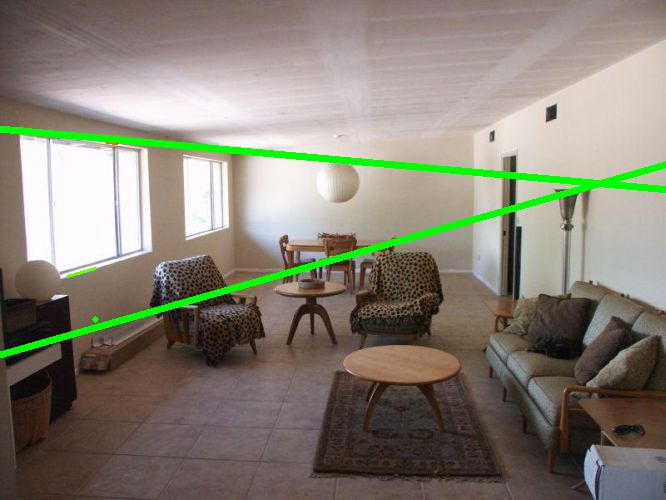
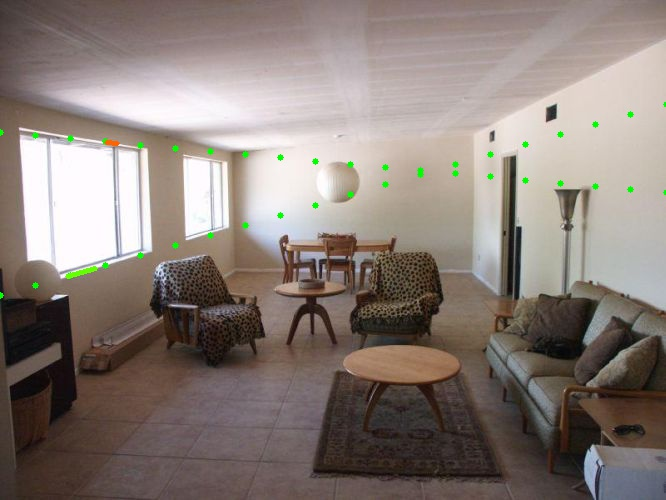
Another attempt, these files maybe useful later

diff --git a/term.py b/term.py
@@ -19,7 +19,7 @@ for i in range(line.shape[0]):
 		other_line.append(line[i])
 		#print line[i][0], mi
 
-cv2.imwrite('houghlines_'+image_dir[-6:],img)
+#cv2.imwrite('houghlines_'+image_dir[-6:],img)
 
 
 # the list would be appended in the following format:
@@ -68,15 +68,15 @@ j = 2
 con = other_line[i][0]
 pro = other_line[j][0]
 img1 = cv2.imread(image_dir)
-cv2.line(img1,(int(other_line[i][0][0]),int(other_line[i][0][1])),(int(other_line[i][0][2]),int(other_line[i][0][3])),(0,255,100),2)
-cv2.line(img1,(int(other_line[j][0][0]),int(other_line[j][0][1])),(int(other_line[j][0][2]),int(other_line[j][0][3])),(0,100,255),2)
+cv2.line(img1,(int(other_line[i][0][0]),int(other_line[i][0][1])),(int(other_line[i][0][2]),int(other_line[i][0][3])),(0,255,100),3)
+cv2.line(img1,(int(other_line[j][0][0]),int(other_line[j][0][1])),(int(other_line[j][0][2]),int(other_line[j][0][3])),(0,100,255),3)
 
 
 m_con = (other_line[i][0][3]-other_line[i][0][1])/(other_line[i][0][2]-other_line[i][0][0])
 m_pro = (other_line[j][0][3]-other_line[j][0][1])/(other_line[j][0][2]-other_line[j][0][0])
 for g in [0,2]:
-	y_con = other_line[i][0][g+1]+(m_con)*(other_line[i][0][g]-other_line[i][0][1])
-	y_pro = other_line[j][0][g+1]+(m_pro)*(other_line[j][0][g]-other_line[j][0][1])
+	y_con = other_line[i][0][1]+(m_con)*(other_line[i][0][g]-other_line[i][0][0])
+	y_pro = other_line[j][0][1]+(m_pro)*(other_line[j][0][g]-other_line[j][0][0])
 	#print g,y_con,y_pro
 	cv2.circle(img1,(int(other_line[i][0][g]),int(y_con)),3,(0,255,0),-1)
 	cv2.circle(img1,(int(other_line[j][0][g]),int(y_pro)),3,(0,0,255),-1)
@@ -86,12 +86,12 @@ cv2.imwrite('_ch_'+image_dir[-6:],img1)
 #lets complete the lines
 m_con = (other_line[i][0][3]-other_line[i][0][1])/(other_line[i][0][2]-other_line[i][0][0])
 m_pro = (other_line[j][0][3]-other_line[j][0][1])/(other_line[j][0][2]-other_line[j][0][0])
-for g in range(666):
-	y_con = other_line[i][0][1]+(m_con)*(g-other_line[i][0][1])
-	y_pro = other_line[j][0][1]+(m_pro)*(g-other_line[j][0][1])
+for g in np.linspace(0,666,20):
+	y_con = other_line[i][0][1]+(m_con)*(g-other_line[i][0][0])
+	y_pro = other_line[j][0][1]+(m_pro)*(g-other_line[j][0][0])
 	#print g,y_con,y_pro
-	cv2.circle(img1,(g,int(y_con)),3,(0,255,0),-1)
-	cv2.circle(img1,(g,int(y_pro)),3,(0,255,0),-1)
+	cv2.circle(img1,(int(g),int(y_con)),3,(0,255,0),-1)
+	cv2.circle(img1,(int(g),int(y_pro)),3,(0,255,0),-1)
 
 cv2.imwrite('_'+image_dir[-6:],img1)
 

diff --git a/functions.py b/functions.py
@@ -137,3 +137,49 @@ def rank_vanishing_points(intersection_valid, line):
 		vote.append(vote_iter)
 	return vote
 
+def find_intersection2(line):
+	zero_slope = []
+	inf_slope=[]
+	other_line=[]
+
+	for i in range(line.shape[0]):
+		if (line[i][0][3]-line[i][0][1] == 0):
+			#print line[i][0] , 'zero_slope'
+			zero_slope.append((line[i],i))
+			cv2.line(img,(int(line[i][0][0]),int(line[i][0][1])),(int(line[i][0][2]),int(line[i][0][3])),(255,0,0),2)
+
+	for i in range(line.shape[0]):
+		if (line[i][0][2]-line[i][0][0] == 0):
+			#print line[i][0] , 'inf_slope'
+			inf_slope.append((line[i],i))
+			cv2.line(img,(int(line[i][0][0]),int(line[i][0][1])),(int(line[i][0][2]),int(line[i][0][3])),(0,0,255),2)
+
+	for i in range(line.shape[0]):
+		if not((line[i][0][2]-line[i][0][0] == 0)or(line[i][0][3]-line[i][0][1] == 0)):
+			other_line.append((line[i],i))
+			#print line[i][0], mi
+	
+	intersection = []
+	intersection_valid = []
+	intersection_invalid = []
+
+	for i in range(len(other_line)):
+		mi = (other_line[i][0][3]-other_line[i][0][1])/(other_line[i][0][2]-other_line[i][0][0])
+		for j in range(i+1,len(other_line)):
+			##
+			#checking if any of the slopes are infinity
+			##
+			mj = (other_line[j][0][3]-other_line[j][0][1])/(other_line[j][0][2]-other_line[j][0][0])	
+			if (mi==mj):
+				intersection.append([i,j,float("inf"),float("inf"),1])
+				intersection_valid.append([i,j,float("inf"),float("inf"),1])
+			else:
+				p_x = (other_line[j][0][1]-other_line[i][0][1] + mi*other_line[i][0][0] - mj*other_line[j][0][0])/(mi-mj)
+				p_y = other_line[j][0][1]+ mj*(p_x-other_line[j][0][0])
+				if (in_lineseg(other_line[i][0],p_x,p_y) or (in_lineseg(other_line[j][0],p_x,p_y))):
+					intersection.append([i,j,p_x,p_y,0])
+					intersection_invalid.append([i,j,p_x,p_y,0])
+				else: 
+					intersection.append([i,j,p_x,p_y,1])
+					intersection_valid.append([i,j,p_x,p_y,1])
+

diff --git a/vanishing_points_new.py b/vanishing_points_new.py
@@ -6,7 +6,7 @@ from PIL import Image
 from tempfile import TemporaryFile
 import pdb
 
-from functions import find_max_length, find_intersection, rank_vanishing_points, vote_value, in_lineseg
+from functions import find_max_length, find_intersection, rank_vanishing_points, vote_value, in_lineseg,find_intersection2
 
 ########################################
 #In this section, we detect the edges of the image using Probablistic houghtransform. 
@@ -31,7 +31,7 @@ img_hough = img
 
 ###### intersection detection ######
 
-intersection, intersection_valid, intersection_invalid = find_intersection(line)
+intersection, intersection_valid, intersection_invalid = find_intersection2(line)
 
 #for i in range(len(intersection_valid)):
 #	print intersection_valid[i]
